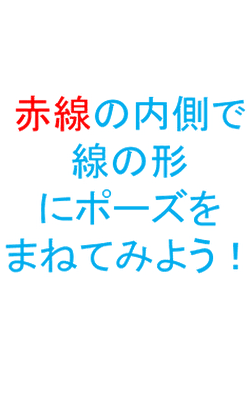
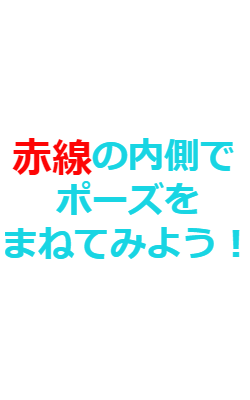
fix: jduge pose

Changed region(s): [[0.0, 0.24, 0.98, 0.69], [0.924, 0.57, 0.98, 0.69]]

diff --git a/Classes/ClsImageProcessPose.py b/Classes/ClsImageProcessPose.py
@@ -23,14 +23,7 @@ class ClsImageProcessPose(ClsImageProcess):
 			min_detection_confidence=0.5,
 			min_tracking_confidence=0.5)
 
-		# imOverlayOrig_pose = cv2.imread('./images/sign_pose.png', -1)
-		# # imOverlayOrig_pose = cv2.resize(imOverlayOrig_pose, dsize=(self.sWidthWindow, self.sHeightWindow))
-		# self.imOverlayMask_pose = imOverlayOrig_pose[:,:,3]
-		# self.imOverlayMask_pose = cv2.cvtColor(self.imOverlayMask_pose, cv2.COLOR_GRAY2BGR)
-		# self.imOverlayMask_pose	 = self.imOverlayMask_pose / 255
-		# self.imOverlayOrig_pose = imOverlayOrig_pose[:,:,:3]
-
-		imOverlayOrig_inst = cv2.imread('./images/sign_inst2_2.png', -1)
+		imOverlayOrig_inst = cv2.imread('./images/sign_inst.png', -1)
 		self.imOverlayMask_inst = imOverlayOrig_inst[:,:,3]
 		self.imOverlayMask_inst = cv2.cvtColor(self.imOverlayMask_inst, cv2.COLOR_GRAY2BGR)
 		self.imOverlayMask_inst	 = self.imOverlayMask_inst / 255
@@ -38,7 +31,7 @@ class ClsImageProcessPose(ClsImageProcess):
 		# self.window.setEnableOverlay(True, 300, 0)
 		# self.window.setOverlayImage(self.imOverlayOrig_inst, self.imOverlayMask_inst)
 
-		imOverlayOrig_correct = cv2.imread('./images/sign_correct_cyan.png', -1)
+		imOverlayOrig_correct = cv2.imread('./images/sign_correct_cyan2.png', -1)
 		self.imOverlayMask_correct = imOverlayOrig_correct[:,:,3]
 		self.imOverlayMask_correct = cv2.cvtColor(self.imOverlayMask_correct, cv2.COLOR_GRAY2BGR)
 		self.imOverlayMask_correct	 = self.imOverlayMask_correct / 255
@@ -49,16 +42,9 @@ class ClsImageProcessPose(ClsImageProcess):
 	def setRatioROI(self, ratioROI):
 		self.ratioROI = ratioROI
 
-	def defineCorrectPose(self, strImgPath):
-		#imCorrect = cv2.imread(strImgPath)
-		#imCorrect = cv2.resize(
-		#	imCorrect, (int(imCorrect.shape[1]*0.9), int(imCorrect.shape[0]*0.9)))
-		#results = self.pose_subject.process(cv2.cvtColor(imCorrect, cv2.COLOR_BGR2RGB))
-		#vLandmark = [landmark for landmark in results.pose_landmarks.landmark]
-		#vPoints = [(landmark.x * imCorrect.shape[1], landmark.y * imCorrect.shape[0])
-		#			for landmark in vLandmark]
-		#self.correctAngles = makeListOfAngles(vLandmark, vPoints)
-		self.correctAngle = 20
+	def defineCorrectPose(self, angle=40, margin=5):
+		self.correctAngle = angle
+		self.sJudgeMargin = margin
 		# print(self.correctAngle)
 
 	def defineROI(self, img):
@@ -72,7 +58,6 @@ class ClsImageProcessPose(ClsImageProcess):
 		#self.ratioROI = 0.5
 		self.flag = False  # ポーズができたかのフラグ
 		self.flag_onstart = 0  # ポーズができた時の時間を格納する場所
-		#self.sJudgeMargin = 20
 		#self.mp_pose = mp.solutions.pose
 		#self.pose = self.mp_pose.Pose(
 		#	min_detection_confidence=0.5,
@@ -114,10 +99,10 @@ class ClsImageProcessPose(ClsImageProcess):
 				self.flag = True
 				self.flag_onstart = time.time()
 
-		# self.window.setOverlayImage(self.imOverlayOrig_pose, self.imOverlayMask_pose)
 		# クラスのポーズ判定フラグによって左上に表示する画像を変える
 		if self.flag is True:
 			self.window.setOverlayImage(self.imOverlayOrig_correct, self.imOverlayMask_correct)
+			# self.window.setOverlayImage(self.imOverlayOrig_pose, self.imOverlayMask_pose)
 			self.imProcessed = self.imSensor
 
 			# ポーズ判定で正解して３秒以上経過したらクラスのフラグをFalseにし、processの返り値をTrueにする
@@ -127,6 +112,7 @@ class ClsImageProcessPose(ClsImageProcess):
 				return True
 		else:
 			self.window.setOverlayImage(self.imOverlayOrig_inst, self.imOverlayMask_inst)
+			# self.window.setOverlayImage(self.imOverlayOrig_pose, self.imOverlayMask_pose)
 			self.imProcessed = self.imSensor
 
 

diff --git a/Classes/JudgePose.py b/Classes/JudgePose.py
@@ -103,48 +103,47 @@ def draw_landamrks(img, points, line_pic, radius, line_color, circle_color):
 	return img_
 
 def judge_pose(vLandmarks, vPoints, correctAngle, sJudgeMargin):
-	# currentAngles = makeListOfAngles(vLandmarks, vPoints)
-	#print(currentAngles[0],currentAngles[1],currentAngles[4],currentAngles[5])
-	#print(vLandmarks[26],vLandmarks[25])
-	flag = False
-	# for i in range(0, 8):
-	# 	if i in (2, 3, 6, 7):
-	# 		continue
-	# 	if correctAngles[i] - sJudgeMargin  <= currentAngles[i] \
-	# 	and currentAngles[i] <= correctAngles[i] + sJudgeMargin:
-	# 		pass
-	# 	else:
-	# 		flag = False
+	flag = True
 
-	# 肩の中心x座標
-	shoulder_mid_x = (vPoints[12][0]+vPoints[11][0])/2
-	# y座標
-	shoulder_mid_y = (vPoints[12][1]+vPoints[11][1])/2
-	shoulder_mid_point = (shoulder_mid_x, shoulder_mid_y)
+	# 検出率が低いときフラグをおろす
+	for i in [11, 12, 23, 24]:
+		if vLandmarks[i].visibility <= 0.3:
+			flag = False
 
-	# 腰の中心x座標
-	hip_mid_x = (vPoints[24][0]+vPoints[23][0])/2
-	# y座標
-	hip_mid_y = (vPoints[24][1]+vPoints[23][1])/2
-	hip_mid_point = (hip_mid_x, hip_mid_y)
+	if flag is True:
+		# 肩の中心x座標
+		shoulder_mid_x = (vPoints[12][0]+vPoints[11][0])/2
+		# y座標
+		shoulder_mid_y = (vPoints[12][1]+vPoints[11][1])/2
+		shoulder_mid_point = (shoulder_mid_x, shoulder_mid_y)
 
-	array_left_shoulder = np.array(vPoints[11])
-	array_right_shoulder = np.array(vPoints[12])
-	a = np.linalg.norm(array_left_shoulder - array_right_shoulder)
+		# 腰の中心x座標
+		hip_mid_x = (vPoints[24][0]+vPoints[23][0])/2
+		# y座標
+		hip_mid_y = (vPoints[24][1]+vPoints[23][1])/2
+		hip_mid_point = (hip_mid_x, hip_mid_y)
 
-	array_shoulder = np.array(shoulder_mid_point)
-	array_hip = np.array(hip_mid_point)
-	b = np.linalg.norm(array_shoulder - array_hip)
+		array_left_shoulder = np.array(vPoints[11])
+		array_right_shoulder = np.array(vPoints[12])
+		a = np.linalg.norm(array_left_shoulder - array_right_shoulder)
 
-	if a / b <= 0.5:
-		# xは腰の位置,yは肩の位置の座標
-		hipx_shouldery = (hip_mid_x, shoulder_mid_y)
+		array_shoulder = np.array(shoulder_mid_point)
+		array_hip = np.array(hip_mid_point)
+		b = np.linalg.norm(array_shoulder - array_hip)
 
-		this_angle = measureAngle([hip_mid_point, hipx_shouldery, shoulder_mid_point], [0, 1, 2])
-		if this_angle >= 180 :
-			this_angle = 360 - this_angle
-		if correctAngle - sJudgeMargin <= this_angle and this_angle <= correctAngle + sJudgeMargin:
-			flag = True
+		if a / b <= 0.5:
+			# xは腰の位置,yは肩の位置の座標
+			hipx_shouldery = (hip_mid_x, shoulder_mid_y)
+
+			this_angle = measureAngle([hip_mid_point, hipx_shouldery, shoulder_mid_point], [0, 1, 2])
+			if this_angle >= 180 :
+				this_angle = 360 - this_angle
+			if correctAngle - sJudgeMargin <= this_angle and this_angle <= correctAngle + sJudgeMargin:
+				pass
+			else:
+				flag = False
+		else:
+			flag = False
 
 
 	return flag

diff --git a/functions/ModeFuncPose.py b/functions/ModeFuncPose.py
@@ -53,7 +53,9 @@ def procPose_Q(dictArgument):
 
 		if sTappedArea == 0:  # 次へをタップ
 			proc.createWindows()
-			proc.defineCorrectPose("")
+
+			#引数angleに数値を入れることによって判定角度を変更できる（デフォルトでは40度), 引数marginに数値を入れることで判定角度からの許容角度を変更できる(デフォルトでは5)
+			proc.defineCorrectPose()
 			sStartTime = cState.updateState("POSE_PROC")
 			dictArgument["Start time"] = sStartTime
 
